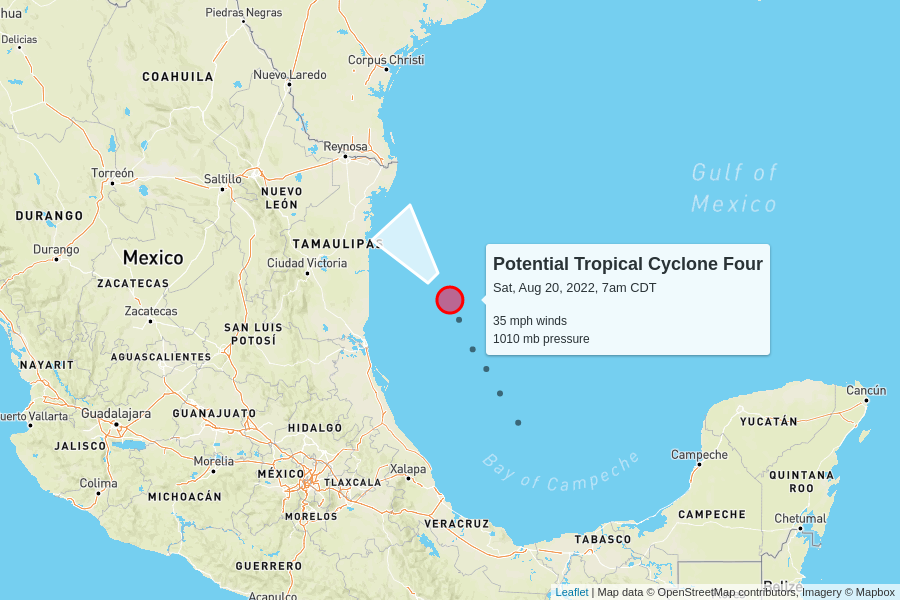
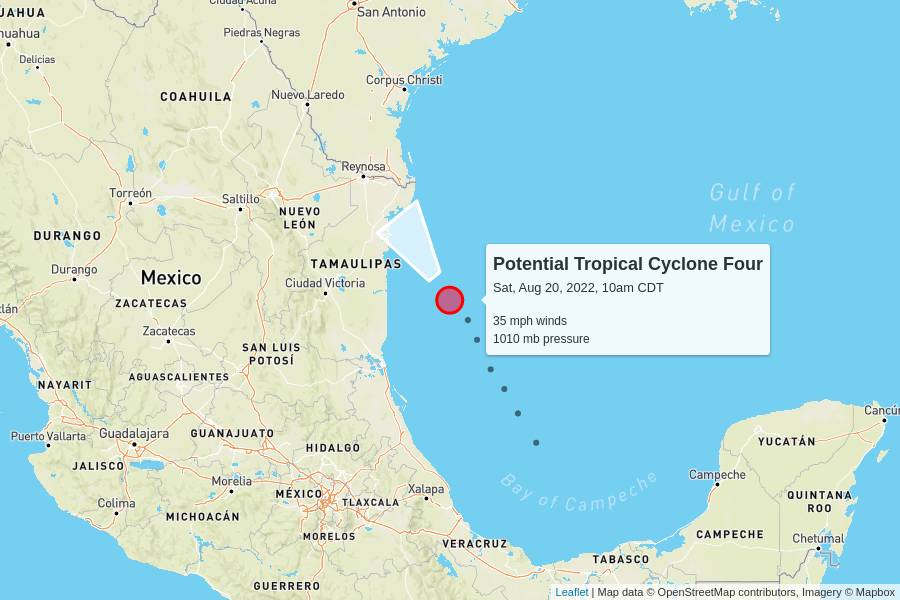
automatic update

diff --git a/docs/index.html b/docs/index.html
@@ -100,7 +100,7 @@
         <td colspan="6" class="storm category-0" >
           <h2>
             Potential Tropical Cyclone Four
-            <p class="updated">last updated <span data-time>2022-08-20T12:00:00.000Z</span></p>
+            <p class="updated">last updated <span data-time>2022-08-20T15:00:00.000Z</span></p>
           </h2>
         </td>
       </tr>
@@ -118,9 +118,9 @@
         <td>35 mph</td>
         <td>1010 mb</td>
         <td>
-          14 mph to the northwest
+          13 mph to the northwest
           <br/>
-          <span style="display: inline-block; font-size: 1.5em; transform: rotate(320deg);">↑</span>
+          <span style="display: inline-block; font-size: 1.5em; transform: rotate(325deg);">↑</span>
         </td>
         <td><a href="https://raw.githubusercontent.com/mgwalker/atlantic-hurricanes/main/data/csv/AL042022.csv">AL042022.csv</a></td>
         <td><a href="https://www.nhc.noaa.gov/archive/2022/FOUR.shtml?">NHC advisories</a></td>
